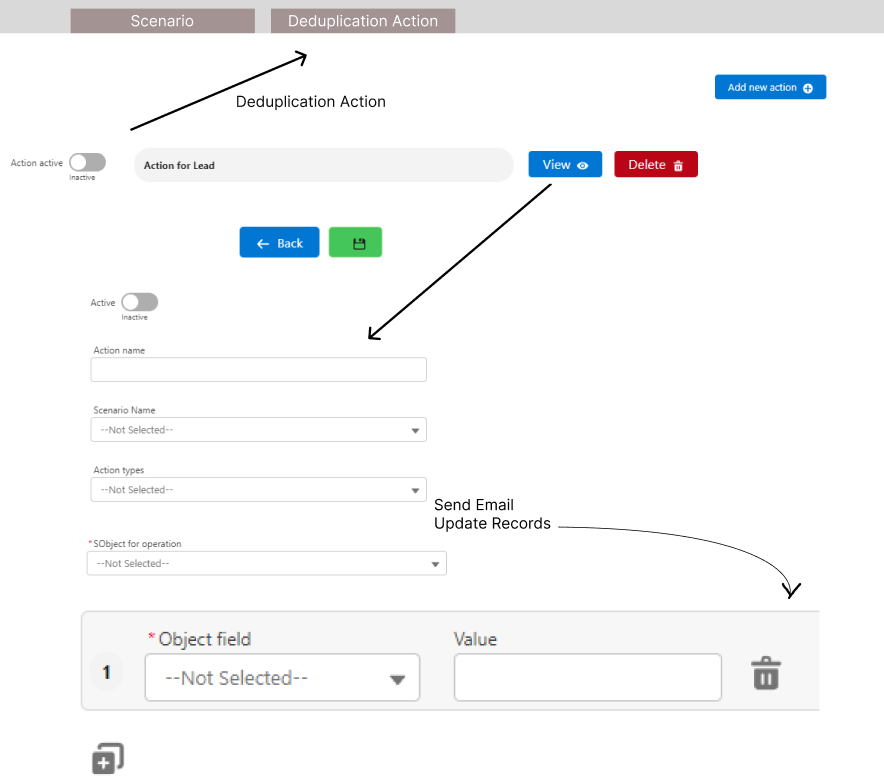
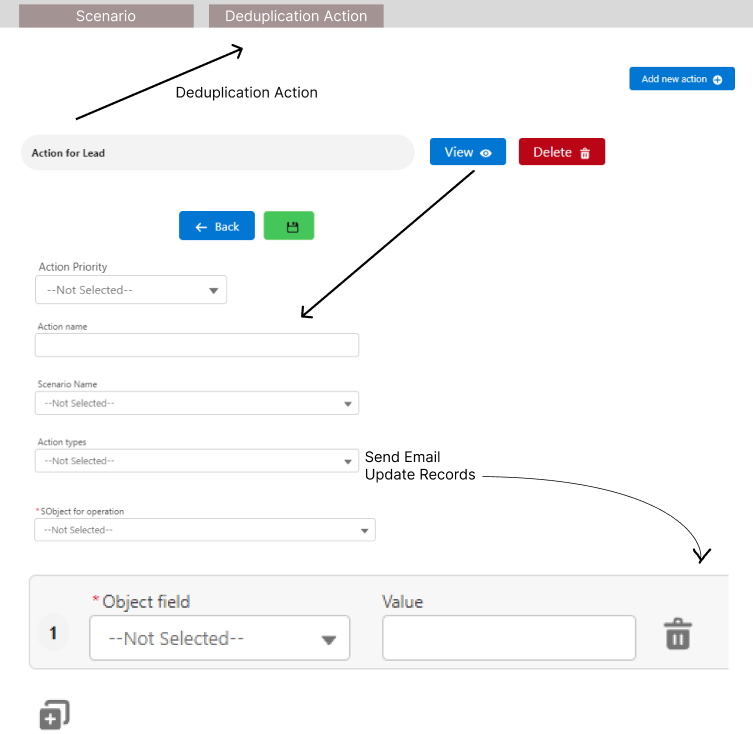
fix: presentation

diff --git a/index.html b/index.html
@@ -315,9 +315,16 @@
         </section>
 
         <section>
-          <h4>Actions page</h4>
+          <h4>Actions page (Action Update Records)</h4>
           <p>
             <img src="./assets/actions.png" alt="actions" height="600px">
+          </p>
+        </section>
+
+        <section>
+          <h4>Actions page (Action Send Email)</h4>
+          <p>
+            <img src="./assets/actions-2.png" alt="actions" height="600px">
           </p>
         </section>
 
@@ -430,6 +437,15 @@
             <img src="./assets/use-manage-pack-3.png" alt="using-manage-pack-3" height="150px">
             <img src="./assets/Api-search.png" alt="Api-search">
           </div>
+        </section>
+
+        <section>
+          <h5>Logger for logging Errors in process development</h5>
+          <div>
+            <img src="./assets/nebela-logger.png" alt="logger" height="200px">
+            <img src="./assets/logger.png" alt="logger-call" height="220px">
+          </div>
+          <a href="https://github.com/jongpie/NebulaLogger" style="font-size: 24px;">Nebula Logger for Salesforce</a>
         </section>
 
         <section>
